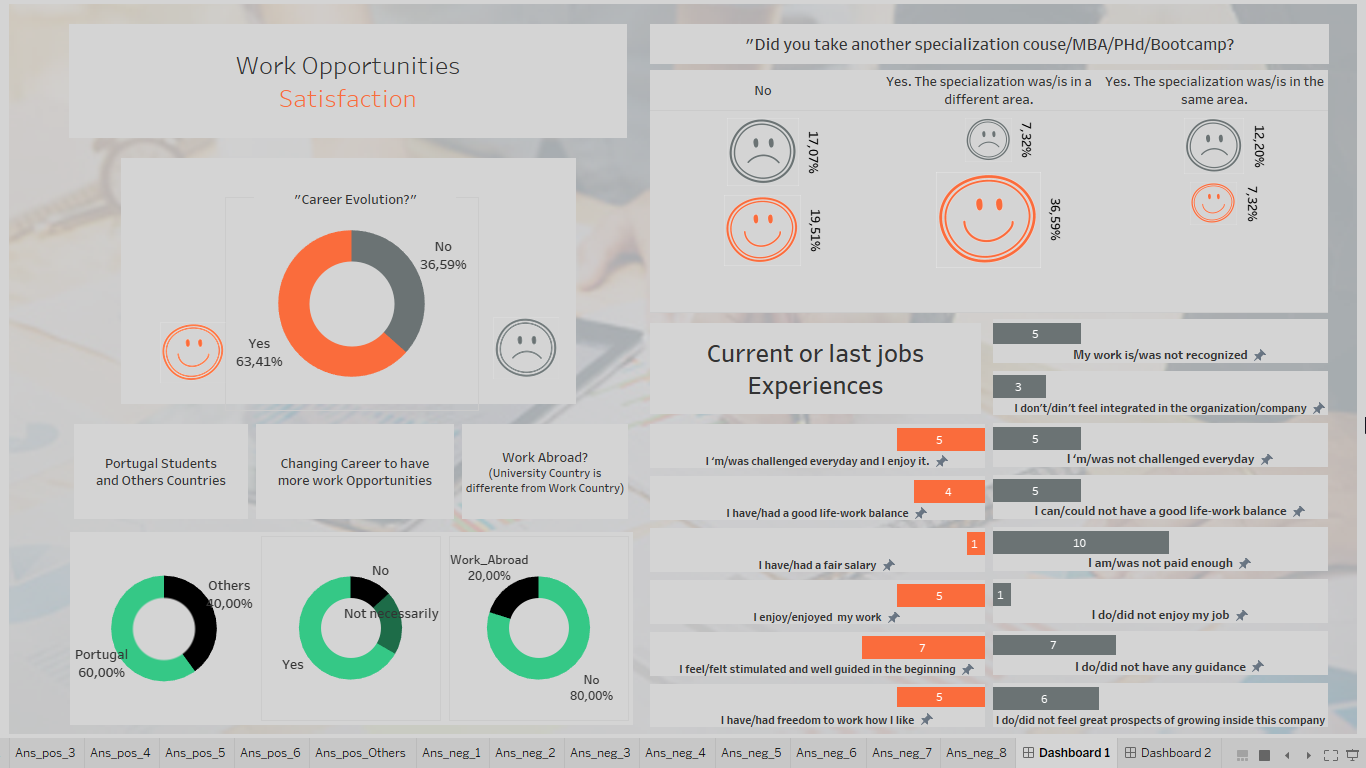
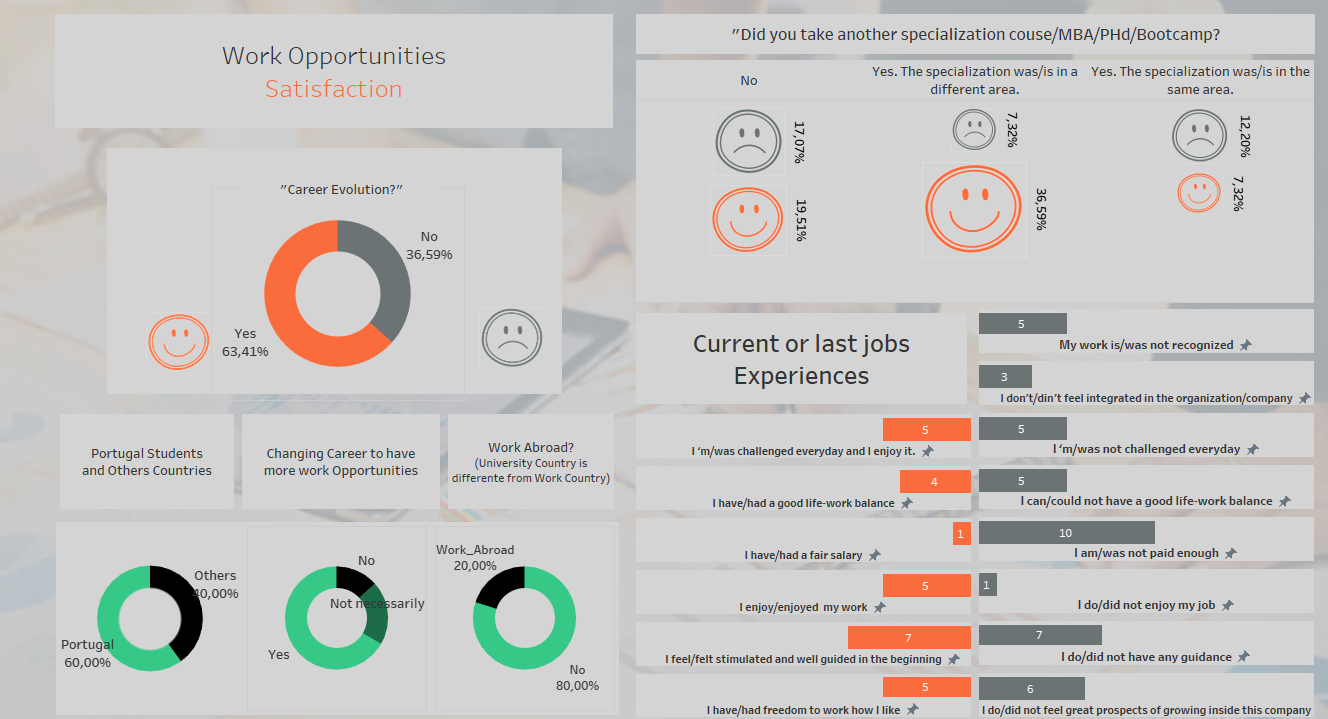
readme updated

diff --git a/README.md b/README.md
@@ -8,7 +8,7 @@ In this project, the goal was to collect experimental data and do a complete end
 
 The results were presented in a dynamic Tableau dashboard. You can find it [here](https://public.tableau.com/app/profile/ines.andrade/viz/Projecto_Universities_Studies_Vs_Career_Opportunities/Dashboard1) on Tableau Public.
 
-![Dashboard](Images\chrome_CFNdxu3Uvs.png)
+![Dashboard](TableauPublicDashboard.png)
 
 
 ## Sample Collection
